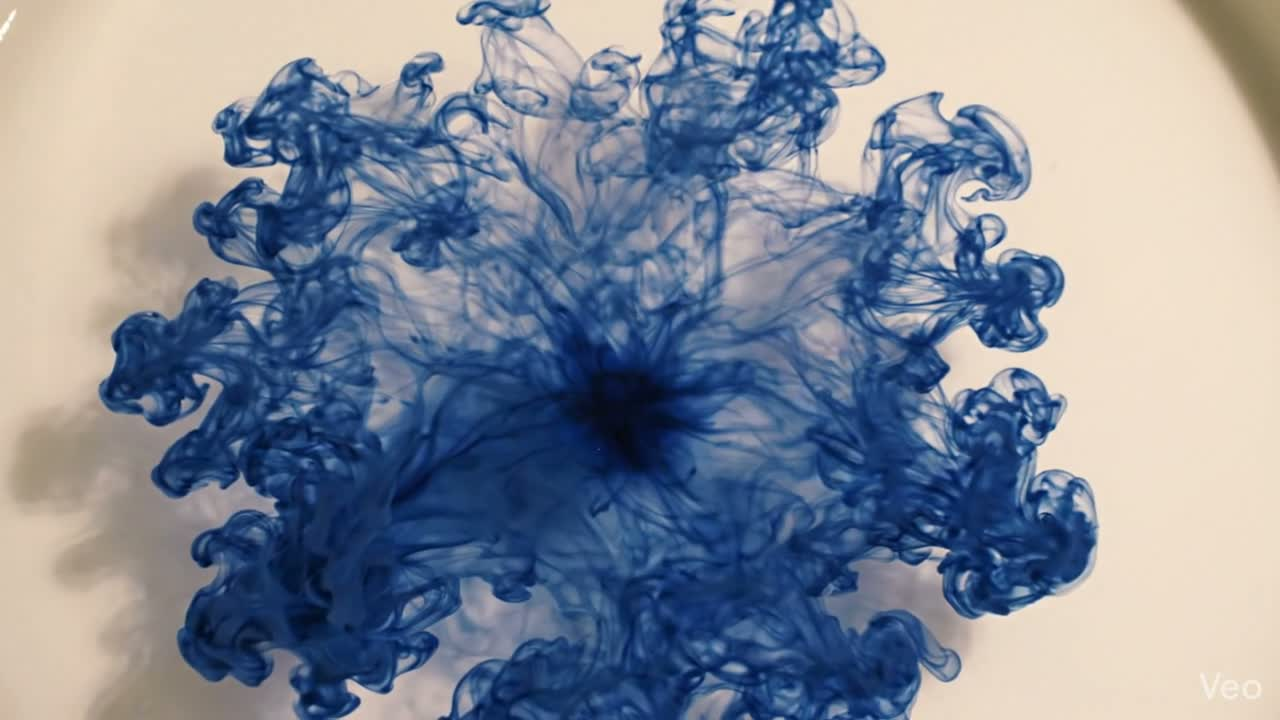
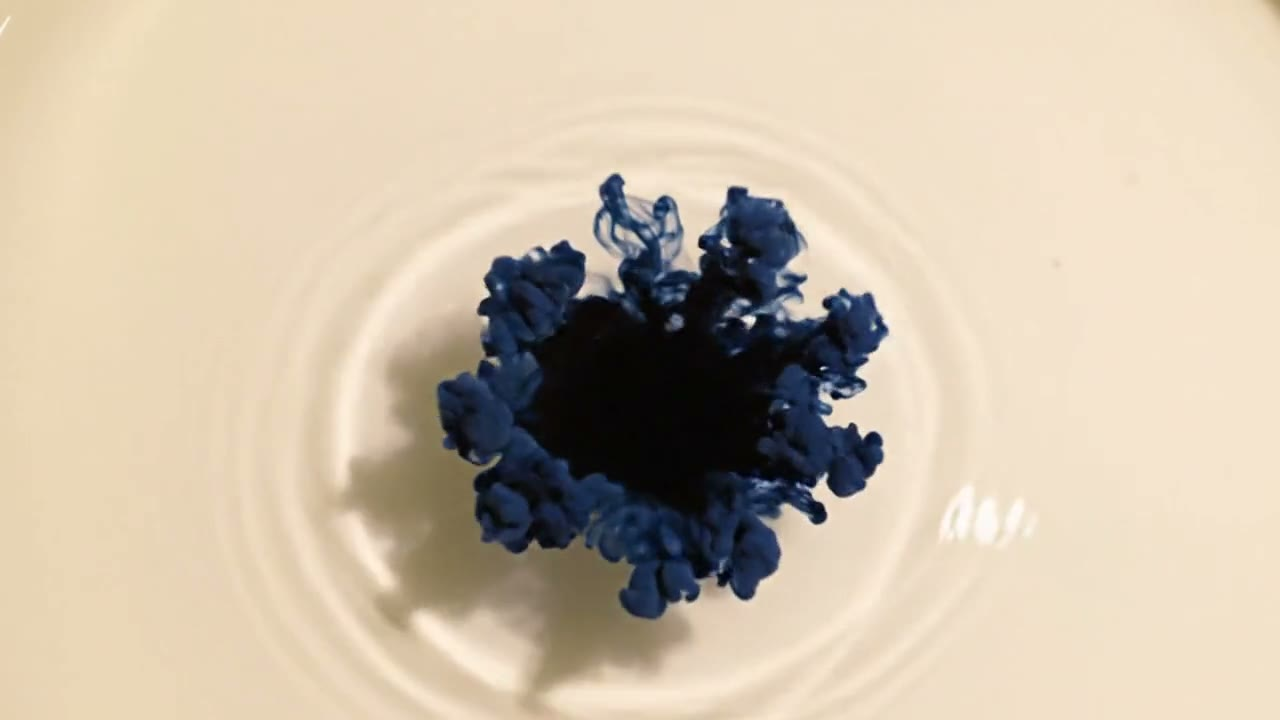
Polish portfolio hero and discovery metadata

diff --git a/index.html b/index.html
@@ -11,13 +11,13 @@
 <link rel="alternate" type="application/json" title="Haoming Koo structured profile" href="https://kooexperience.com/profile.json" />
 
 <title>Haoming Koo | Applied AI Engineer in Singapore</title>
-<meta name="description" content="Haoming Koo is a Singapore applied AI engineer building production ML systems, RAG workflows, agent tools, evals, and 8 live AI products." />
+<meta name="description" content="Haoming Koo is a Singapore applied AI engineer with 7 years at Micron, AI Singapore AIAP work with AMD through 100E, and 8 live AI products across RAG, agents, evals, vision, and product UX." />
 <meta name="author" content="Haoming Koo" />
 <meta name="robots" content="index, follow, max-snippet:-1, max-image-preview:large" />
 <link rel="canonical" href="https://kooexperience.com/" />
 
 <meta property="og:title" content="Haoming Koo | Applied AI Engineer in Singapore" />
-<meta property="og:description" content="Production ML systems, RAG workflows, agent tools, evals, observability, vision pipelines, and 8 live AI products by Haoming Koo." />
+<meta property="og:description" content="7 years at Micron, AI Singapore AIAP work with AMD through 100E, and 8 live AI products across RAG, agents, evals, vision, and product UX." />
 <meta property="og:image" content="https://kooexperience.com/assets/og-image.png" />
 <meta property="og:locale" content="en_SG" />
 <meta property="og:url" content="https://kooexperience.com/" />
@@ -25,7 +25,7 @@
 <meta property="og:site_name" content="Haoming Koo" />
 <meta name="twitter:card" content="summary_large_image" />
 <meta name="twitter:title" content="Haoming Koo | Applied AI Engineer in Singapore" />
-<meta name="twitter:description" content="Production ML systems, RAG workflows, agent tools, evals, observability, vision pipelines, and 8 live AI products." />
+<meta name="twitter:description" content="Singapore applied AI engineer with production ML, RAG, agent workflows, evals, and 8 live AI products." />
 
 <!-- JSON-LD: WebSite + Person -->
 <script type="application/ld+json">
@@ -35,7 +35,8 @@
   "@id": "https://kooexperience.com/#website",
   "name": "Haoming Koo | Applied AI Engineer in Singapore",
   "url": "https://kooexperience.com",
-  "description": "Portfolio of Haoming Koo, an applied AI engineer in Singapore building production ML systems, agent workflows, RAG, evals, observability, vision pipelines, and full-stack AI applications.",
+  "description": "Portfolio of Haoming Koo, an applied AI engineer in Singapore with 7 years at Micron, AI Singapore AIAP work with AMD through 100E, and 8 live AI products across RAG, agents, evals, vision, and product UX.",
+  "dateModified": "2026-05-12",
   "author": {
     "@type": "Person",
     "@id": "https://kooexperience.com/#person",
@@ -44,7 +45,7 @@
     "givenName": "Haoming",
     "familyName": "Koo",
     "jobTitle": "Applied AI Engineer",
-    "description": "Applied AI engineer with 7 years of systems experience across semiconductor manufacturing, cloud infrastructure, data platforms, and production ML. Contributed to USD 600M+ in program outcomes at Micron and currently builds production ML systems at AI Singapore, including an industry AI solution with AMD through the 100E programme.",
+    "description": "Applied AI engineer in Singapore with 7 years of systems experience across semiconductor manufacturing, cloud infrastructure, data platforms, and production ML. Contributed to USD 600M+ in program outcomes at Micron and currently builds production ML systems at AI Singapore, including an industry AI solution with AMD through the 100E programme.",
     "url": "https://kooexperience.com",
     "image": "https://kooexperience.com/assets/haoming-portrait.jpg",
     "email": "[email redacted]",
@@ -380,13 +381,19 @@
     font-family: var(--display);
     font-variation-settings: "opsz" 144, "SOFT" 0;
     font-weight: 380;
-    font-size: clamp(64px, 9.5vw, 156px);
-    line-height: 0.88;
+    font-size: clamp(64px, 8.4vw, 136px);
+    line-height: 0.96;
     letter-spacing: -0.035em;
     color: var(--ink);
     margin-bottom: 36px;
   }
-  h1.display .row { display: block; overflow: hidden; padding-bottom: 0.22em; }
+  h1.display .row {
+    display: block;
+    overflow: hidden;
+    padding-top: 0.14em;
+    padding-bottom: 0.22em;
+    margin-top: -0.14em;
+  }
   h1.display .ch { display: inline-block; transform: translateY(110%); opacity: 0; animation: charRise 1100ms var(--ease) forwards; }
   h1.display .row.r2 .ch { font-style: italic; font-variation-settings: "opsz" 144, "SOFT" 15; color: var(--accent); }
   h1.display .ch:nth-child(1) { animation-delay: 1250ms; }
@@ -1007,7 +1014,7 @@
     <div class="loader-name">Haoming <em>Koo</em>.</div>
     <div class="loader-meta">
       <span class="dot"></span>
-      <span>Applied AI &middot; Singapore &middot; Q4 2026</span>
+      <span>Applied AI &middot; Singapore &middot; Available from Q4 2026</span>
     </div>
     <div class="loader-bar"></div>
   </div>
@@ -1044,7 +1051,7 @@
     <div class="hero-video-mask"></div>
   </div>
   <div class="hero-text">
-    <div class="hero-eyebrow">Applied AI · Singapore · Available Q4 2026</div>
+    <div class="hero-eyebrow">Applied AI · Singapore · Available from Q4 2026</div>
     <h1 class="display">
       <span class="row r1"><span class="ch">H</span><span class="ch">a</span><span class="ch">o</span><span class="ch">m</span><span class="ch">i</span><span class="ch">n</span><span class="ch">g</span></span>
       <span class="row r2"><span class="ch">K</span><span class="ch">o</span><span class="ch">o</span></span>
@@ -1052,7 +1059,7 @@
     <p class="hero-tagline">I turn messy workflows into <em>shipped AI products</em>.</p>
     <p class="hero-sub">
       Seven years at <strong>Micron</strong> on production systems: search, vision, risk, simulation.
-      Now at <strong>AI Singapore (AIAP)</strong>, building an <em>agentic AI solution</em> with <strong>AMD</strong> through the 100E programme.
+      Now at <strong>AI Singapore (AIAP)</strong>, building an <em>industry AI solution</em> with <strong>AMD</strong> through the 100E programme.
     </p>
     <div class="cta-row">
       <a class="cta-primary" href="mailto:[email redacted]" data-magnetic>
@@ -1061,9 +1068,9 @@
       <a class="cta-quiet" href="#work">See the work &rarr;</a>
     </div>
     <div class="proof-row">
-      <div><span class="num"><span data-countup="7">0</span><em>yrs</em></span><span class="lbl">Micron Technology</span></div>
-      <div><span class="num">$<span data-countup="600">0</span>M<em>+</em></span><span class="lbl">Program impact</span></div>
-      <div><span class="num"><span data-countup="8">0</span></span><span class="lbl">Live products</span></div>
+      <div><span class="num" aria-label="7 years"><span data-countup="7">7</span><em>yrs</em></span><span class="lbl">Micron Technology</span></div>
+      <div><span class="num" aria-label="600 million plus">$<span data-countup="600">600</span>M<em>+</em></span><span class="lbl">Program impact</span></div>
+      <div><span class="num" aria-label="8 live products"><span data-countup="8">8</span></span><span class="lbl">Live products</span></div>
     </div>
   </div>
   <div class="portrait-col">
@@ -1304,7 +1311,7 @@
         <span class="about-years">2018 — 2025</span>
         <span class="about-where">Micron Technology</span>
       </div>
-      <p class="about-what">Led AI-enabled transformation across four fabs (<strong>Singapore, Boise, Hiroshima, Taichung</strong>) &mdash; 6 direct + 9 indirect engineers, $9M portfolio. Co-led the <strong>low-power DRAM yield ramp shipping in Apple's iPhone 16 Pro Max</strong> and the <strong>HBM yield program supporting NVIDIA Blackwell</strong>. Built <strong>ML risk-scoring that lifted yield 1&ndash;2% at production scale</strong>, a <strong>GenAI SOP workflow scaled to ~3,000 engineers</strong>, and a <strong>digital twin that cut chemical use 60%</strong>. ResNet-50 wafer-defect classifier (Innovation Award). Work contributed to <em>$600M+ in aggregate program outcomes</em>.</p>
+      <p class="about-what">Led AI-enabled transformation across four fabs (<strong>Singapore, Boise, Hiroshima, Taichung</strong>) &mdash; 6 direct + 9 indirect engineers, $9M portfolio. Co-led <strong>low-power DRAM</strong> and <strong>HBM yield</strong> programs, described here without customer or internal programme details. Built <strong>ML risk-scoring that lifted yield 1&ndash;2% at production scale</strong>, a <strong>GenAI SOP workflow scaled to ~3,000 engineers</strong>, and a <strong>digital twin that cut chemical use 60%</strong>. ResNet-50 wafer-defect classifier (Innovation Award). Work contributed to <em>$600M+ in aggregate program outcomes</em>.</p>
     </div>
 
     <div class="about-row">
@@ -1312,7 +1319,7 @@
         <span class="about-years">2026 — Now</span>
         <span class="about-where">AI Singapore (AIAP) · AMD 100E</span>
       </div>
-      <p class="about-what"><em>Agentic AI solution</em> for industry deployment, powered by <strong>SEA-LION</strong> (AI Singapore's regional LLM). <strong>Agents, vision, sequence modelling, RAG, evals, MLOps.</strong></p>
+      <p class="about-what"><em>Industry AI solution</em> through the AIAP 100E programme, powered by <strong>SEA-LION</strong> and production ML patterns. <strong>Agents, vision, sequence modelling, RAG, evals, MLOps.</strong></p>
     </div>
 
     <div class="about-row">
@@ -1320,7 +1327,7 @@
         <span class="about-years">Always</span>
         <span class="about-where">Building AI</span>
       </div>
-      <p class="about-what"><em>Passionate about shipping new AI solutions</em> &mdash; production-grade, customer-facing, end-to-end. The next one could be yours.</p>
+      <p class="about-what">I keep side projects practical: real URLs, real data where possible, validation gates, and clear boundaries when something is demo or research-only.</p>
     </div>
   </div>
 

diff --git a/about.html b/about.html
@@ -825,7 +825,7 @@
           Applied AI Engineer. I build customer-facing production AI &mdash; LLM workflows,
           agent systems with guardrails, vision pipelines, and sequence modelling.
           7 years at Micron contributing to $600M+ in program outcomes across four global fabs.
-          Currently at AI Singapore (AIAP), forward-deployed on an agentic AI solution with AMD
+          Currently at AI Singapore (AIAP), forward-deployed on an industry AI solution with AMD
           through the 100E programme.
         </p>
         <div class="page-meta">
@@ -874,7 +874,7 @@
           </div>
           <div class="fde-row">
             <div class="fde-pillar">Scoping &amp; delivery</div>
-            <div class="fde-evidence">$9M operational portfolio &middot; 6 direct + 9 indirect engineers &middot; building an agentic AI solution end-to-end with AMD through AIAP 100E.</div>
+            <div class="fde-evidence">$9M operational portfolio &middot; 6 direct + 9 indirect engineers &middot; building an industry AI solution with AMD through AIAP 100E.</div>
           </div>
           <div class="fde-row">
             <div class="fde-pillar">Production rollout</div>
@@ -970,8 +970,8 @@
                 <ul class="timeline-bullets">
                   <li>Designed and executed a 5-year autonomous conversion roadmap using 3M strategy &ndash; <strong>$50M+ in realised savings</strong></li>
                   <li>Unified fragmented process platforms into a single AI-integrated ecosystem &ndash; <strong>standardised 80% of workflows across 4 countries</strong></li>
-                  <li>Co-led the <strong>low-power DRAM yield ramp shipping in Apple's iPhone 16 Pro Max</strong> &ndash; maturity pulled in by 7 months on a multi-quarter mobile-DRAM program</li>
-                  <li>Co-led the <strong>HBM yield program supporting NVIDIA Blackwell</strong> &ndash; Micron's first HBM market entry</li>
+                  <li>Co-led a flagship <strong>low-power DRAM yield ramp</strong> &ndash; maturity pulled in by 7 months on a multi-quarter mobile-DRAM program</li>
+                  <li>Co-led a <strong>high-bandwidth-memory yield program</strong> &ndash; supported Micron's first HBM market entry</li>
                   <li>Modernised infrastructure from <strong>Hadoop to Google Cloud Platform</strong> (GCP)</li>
                   <li>Built and deployed a production <strong>ML risk-scoring system</strong> with real-time pipeline orchestration &ndash; <strong>1&ndash;2% yield improvement at production scale</strong></li>
                   <li>Designed and deployed a production <strong>GenAI SOP workflow</strong> with retrieval, prompt orchestration, and validation layers &ndash; 80&ndash;90% answer relevance, ~15 min/query deflection, ~2 weeks faster onboarding, scaled to ~3,000 engineers</li>

diff --git a/assets/cinematic/README.md b/assets/cinematic/README.md
@@ -1,11 +1,33 @@
-# Cinematic landing assets
+# Cinematic homepage media
 
-The homepage looks for these files:
+The homepage uses abstract ambient video only. Do not place important words inside the videos; all recruiter-facing claims live in HTML so search engines, screen readers, and LLM crawlers can read them.
 
-- `keyframe-01-ai-alchemist.png`
-- `keyframe-02-live-products.png`
-- `kooexperience-scroll-reel.mp4`
+## Current assets
 
-The page works without them by using real product screenshots as a fallback. Once the MP4 exists, the homepage uses it as the cinematic reel.
+- `hero-ambient-v2.webm` / `hero-ambient-v2.mp4` - dark aurora background for the default hero.
+- `hero-ambient-v2-poster.jpg` - poster for the dark hero video.
+- `hero-ambient-light.webm` / `hero-ambient-light.mp4` - lighter cobalt/cream background for the optional light theme.
+- `hero-ambient-light.jpg` - poster for the light hero video.
+- `signature-ink.webm` / `signature-ink.mp4` - abstract ink background for the workflow section.
+- `signature-ink-poster.jpg` - poster for the workflow video.
 
-Use the prompts in [`../../docs/cinematic-landing-prompts.md`](../../docs/cinematic-landing-prompts.md).
+## Rules
+
+- Keep videos abstract: light, particles, ribbons, ink, grids, or atmosphere.
+- No generated UI text inside video frames.
+- No generated human faces in the hero.
+- Keep MP4 and WebM under roughly 4 MB each where possible.
+- Always provide a still poster.
+- Respect `prefers-reduced-motion`; the page already hides videos for reduced-motion users.
+
+## Next background prompt
+
+Use this when regenerating the hero background in Veo, Kimi, or another video model:
+
+```text
+Create an 8-second seamless looping abstract background for a premium AI engineering portfolio. No people, no faces, no readable text, no logos, no watermark.
+
+Visual direction: dark cobalt and near-black "signal observatory" atmosphere. Slow translucent data ribbons cross the frame like silk in water. Fine graph nodes and hairline connections appear faintly in the distance, then drift away. Subtle film grain, deep depth of field, restrained editorial lighting, expensive software-company launch feel. Keep the center-left darker so white serif typography remains readable. Keep the right side softly lit for a portrait cutout. 16:9, 4K, slow camera drift, seamless loop.
+
+Avoid: cyberpunk neon, spaceships, UI dashboards, generated words, cartoon style, busy particles, glowing blobs, fantasy symbols, fake product screens, stock-photo people.
+```